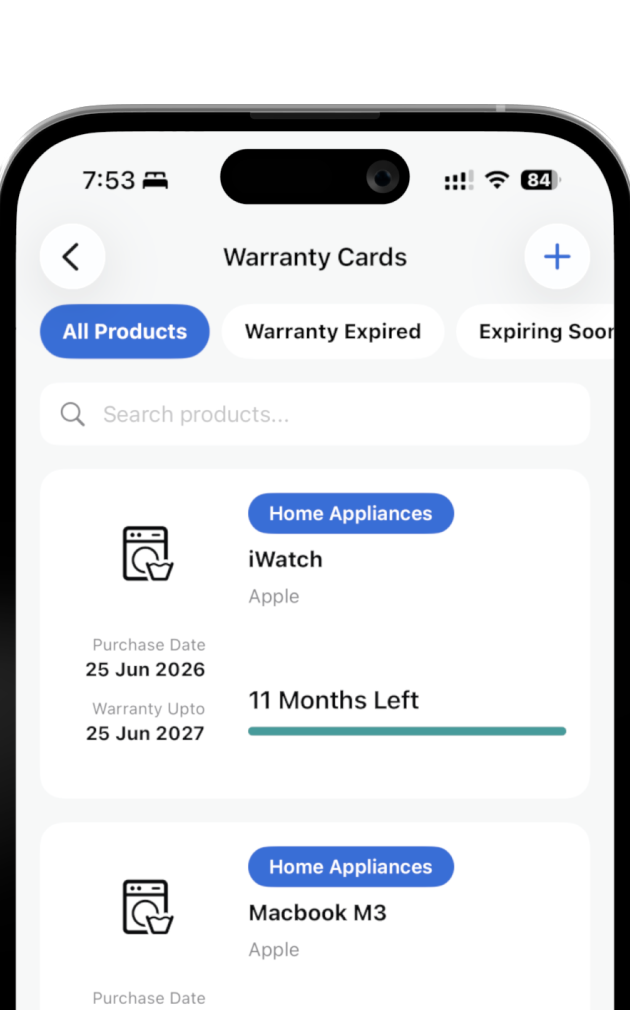
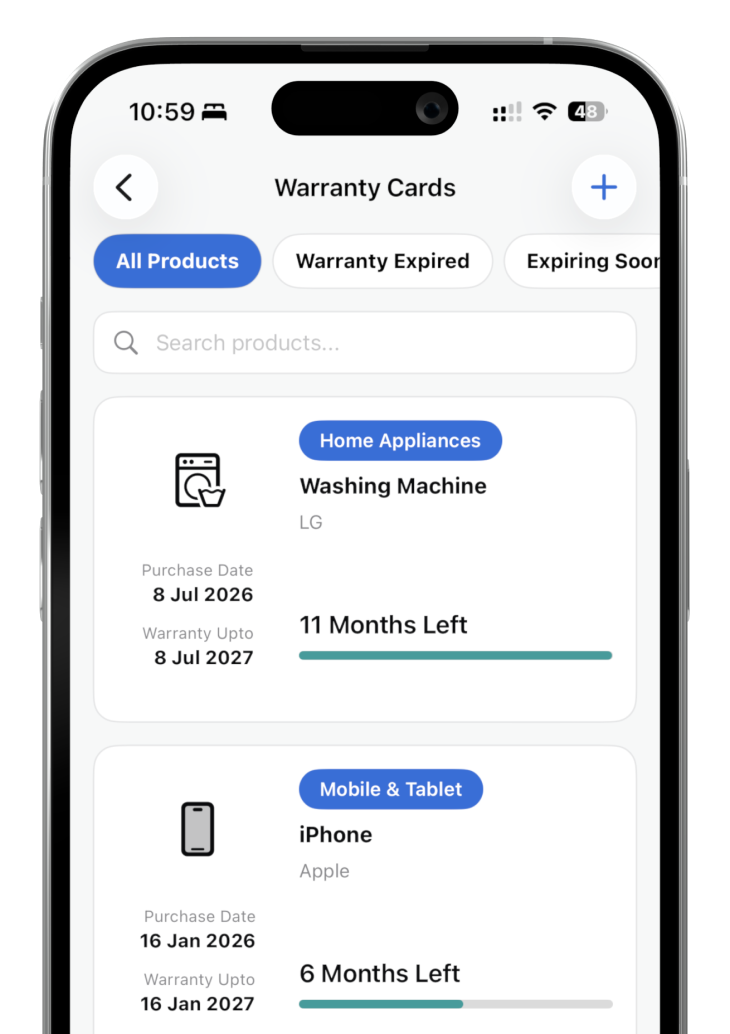
Updated

diff --git a/index.html b/index.html
@@ -207,7 +207,7 @@
   <nav class="sticky top-0 z-[100] bg-white/80 backdrop-blur-2xl border-b border-black/[0.06]">
     <div class="max-w-6xl mx-auto h-[68px] px-[5%] md:px-6 flex items-center justify-between">
       <a class="flex items-center gap-2.5 no-underline" href="#">
-        <img class="w-9 h-9 rounded-xl object-cover block shadow-sm" src="images/icon.png" alt="RemindPay" />
+        <img class="w-9 h-9 object-cover block shadow-sm" src="images/icon.png" alt="RemindPay" />
         <span class="text-[17px] font-bold text-brandtext tracking-[-0.3px]">RemindPay</span>
       </a>
       <div class="flex items-center gap-7">
@@ -263,7 +263,7 @@
     <!-- Phone with glow — primary.500 -->
     <div data-animate data-delay="0.12" class="relative mt-16 flex justify-center">
       <div aria-hidden="true" class="pointer-events-none absolute bottom-[8%] left-1/2 -translate-x-1/2 w-[380px] h-[160px] rounded-full" style="background:rgba(57,111,192,0.20);filter:blur(72px);"></div>
-      <img class="animate-float w-auto max-h-[760px] md:max-h-[860px] block relative drop-shadow-[0_48px_100px_rgba(57,111,192,0.36)]" src="images/phone.png" alt="RemindPay app screen" />
+      <img class="animate-float w-auto max-h-[520px] md:max-h-[620px] block relative drop-shadow-[0_48px_100px_rgba(57,111,192,0.36)]" src="images/phone.png" alt="RemindPay app screen" />
     </div>
   </section>
 
@@ -335,7 +335,7 @@
             </ul>
           </div>
           <div class="flex justify-center md:justify-end">
-            <img src="images/phone.png" alt="RemindPay monthly bills view" class="w-auto max-h-[420px] md:max-h-[460px] block drop-shadow-[0_24px_60px_rgba(57,111,192,0.32)]" />
+            <img src="images/phone.png" alt="RemindPay monthly bills view" class="w-auto max-h-[500px] md:max-h-[560px] block drop-shadow-[0_24px_60px_rgba(57,111,192,0.32)]" />
           </div>
         </div>
       </article>
@@ -359,7 +359,9 @@
         </div>
         <h3 class="text-xl font-extrabold tracking-[-0.4px] mb-2 text-brandtext">Understand your spending</h3>
         <p class="text-[15px] text-brandmuted leading-[1.75]">Charts break down bills by category — today, this week, month, or year.</p>
-        <img src="images/charts.png" alt="RemindPay spending charts" class="mt-6 mx-auto w-auto max-h-[190px] block drop-shadow-[0_20px_50px_rgba(71,154,154,0.32)]" />
+        <div class="-mx-8 -mb-8 mt-6 h-[360px] md:h-[410px] overflow-hidden flex items-start justify-center">
+          <img src="images/charts.png" alt="RemindPay spending charts" class="h-full w-auto block drop-shadow-[0_20px_50px_rgba(71,154,154,0.32)]" />
+        </div>
       </article>
 
       <!-- Widgets — primary.100 #F0F4FA, primary.500 #396FC0 -->
@@ -536,7 +538,7 @@
   <footer class="bg-brandtext text-white/70 pt-[60px] pb-10 px-[5%]">
     <div class="max-w-6xl mx-auto grid grid-cols-1 xs520:grid-cols-2 md:grid-cols-[2fr_1fr_1fr_1fr] gap-12 mb-12">
       <div>
-        <img class="w-11 h-11 rounded-xl object-cover block mb-4 shadow-sm" src="images/icon.png" alt="RemindPay" />
+        <img class="w-11 h-11 object-cover block mb-4 shadow-sm" src="images/icon.png" alt="RemindPay" />
         <div class="text-[17px] font-bold text-white mb-3 tracking-[-0.3px]">RemindPay</div>
         <p class="text-sm leading-[1.75] max-w-[280px] text-white/55">The simplest way to track bills and warranties, set reminders, and stay on top of every payment on your Apple devices.</p>
       </div>